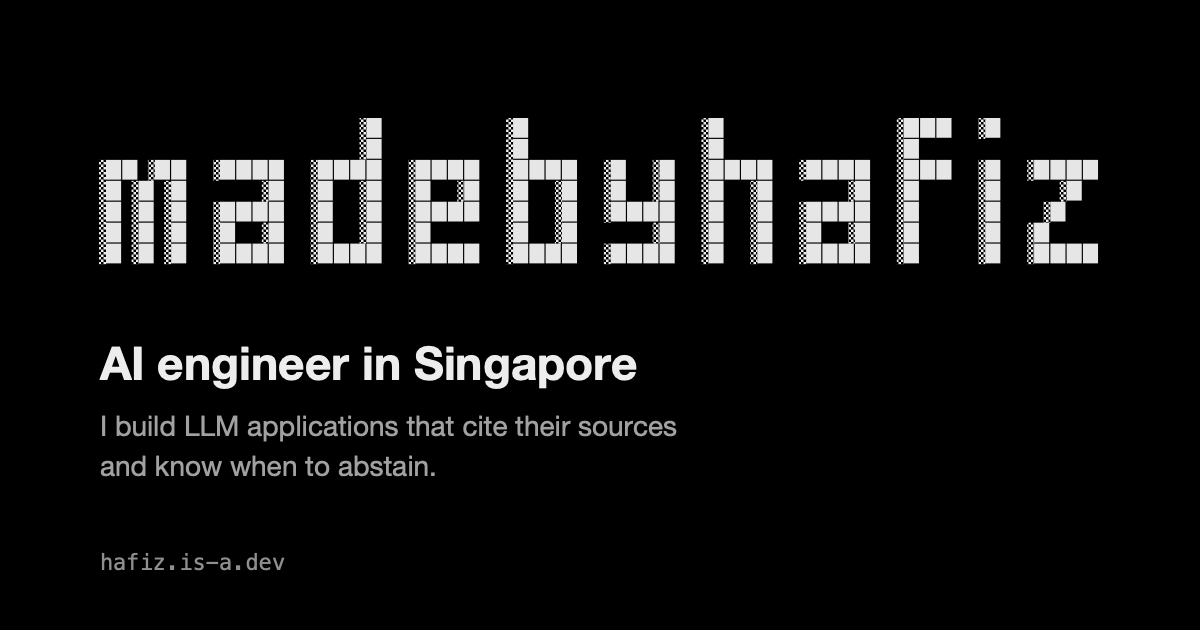
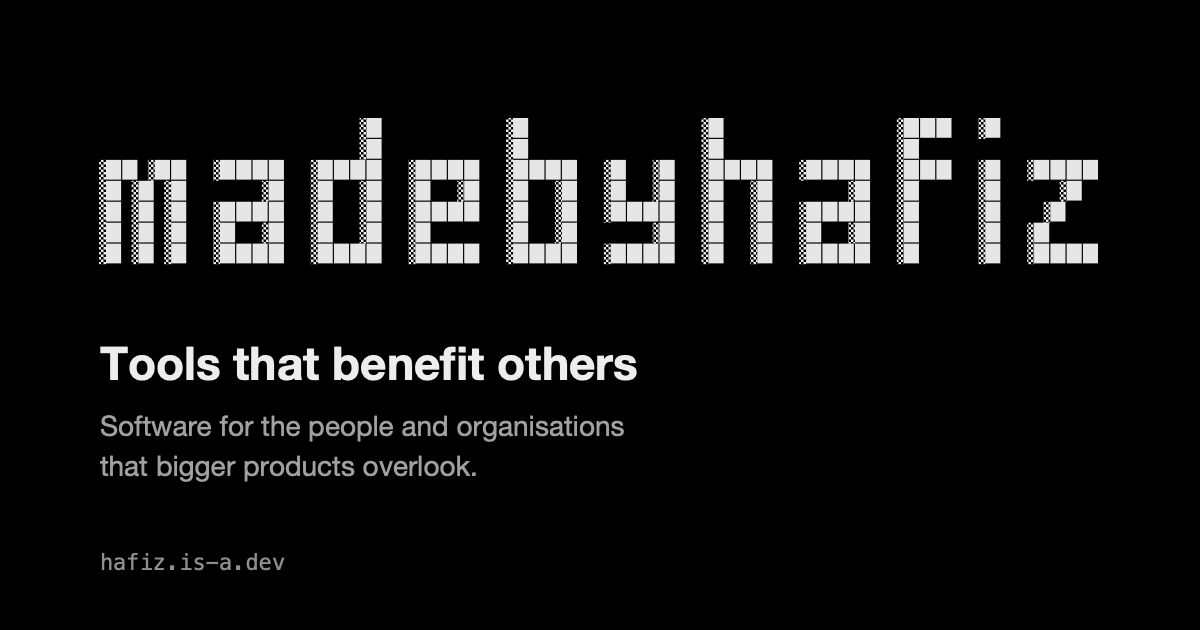
Add deen-note and ping-pong, hide sentryboard and wordblock, new pitch

Changed region(s): [[0.0617, 0.5429, 0.555, 0.6333], [0.0617, 0.6635, 0.5858, 0.6937], [0.0617, 0.7238, 0.4008, 0.7841]]

diff --git a/index.html b/index.html
@@ -3,12 +3,12 @@
 <head>
 <meta charset="utf-8">
 <meta name="viewport" content="width=device-width, initial-scale=1">
-<title>madebyhafiz · AI engineer in Singapore</title>
-<meta name="description" content="Hafiz builds LLM applications that cite their sources and know when to abstain. Projects, experience and a case study of the MUIS assistant, scored on a 150-question eval set.">
+<title>madebyhafiz · Tools that benefit others</title>
+<meta name="description" content="Hafiz builds tools that benefit others: free PayNow for nonprofits, prayer times, a hadith notepad, a citation-only assistant and more. Projects, experience and case studies.">
 <meta name="theme-color" content="#000000">
 <link rel="canonical" href="https://hafiz.is-a.dev/">
-<meta property="og:title" content="madebyhafiz · AI engineer in Singapore">
-<meta property="og:description" content="I build LLM applications that cite their sources and know when to abstain.">
+<meta property="og:title" content="madebyhafiz · Tools that benefit others">
+<meta property="og:description" content="I build tools that benefit others: people, mosques, nonprofits and the small teams bigger software overlooks.">
 <meta property="og:type" content="website">
 <meta property="og:url" content="https://hafiz.is-a.dev/">
 <meta property="og:image" content="https://hafiz.is-a.dev/og.png">
@@ -43,14 +43,14 @@
       <a href="#projects"><span class="caret" aria-hidden="true">›</span>projects</a>
       <div class="sub">
         <a href="muis-assistant.html">muis-assistant</a>
+        <a href="#deen-note">deen-note</a>
         <a href="#fileswarden">fileswarden</a>
         <a href="#presstwo">presstwo</a>
         <a href="#confirmpay">confirmpay</a>
         <a href="#prayer-lockscreen">prayer-lockscreen</a>
         <a href="#bismillah">bismillah</a>
         <a href="#quran-resume">quran-resume</a>
-        <a href="#sentryboard">sentryboard</a>
-        <a href="#wordblock">wordblock</a>
+        <a href="#ping-pong">ping-pong</a>
         <a href="#gym-init">gym-init</a>
         <a href="expense-tracker.html">expense-tracker</a>
       </div>
@@ -105,8 +105,9 @@
         style="border:0;color-scheme:light"></iframe>
 
       <div class="intro">
-        <p class="lead">I build LLM applications that cite their sources and know when to abstain.</p>
-        <p>I'm Hafiz, a Computer Engineering graduate from the National University of Singapore. My main project is an assistant over public MUIS information, scored against a 150-question eval set in English, Malay and Arabic. I have also built a machine-learning prototype for Synapxe and LLM workflows for staff at Masjid Wak Tanjong.</p>
+        <p class="lead">I build tools that benefit others.</p>
+        <p>I'm Hafiz, a Computer Engineering graduate from the National University of Singapore. I make software for the people and organisations that bigger products overlook: a free way for nonprofits to confirm PayNow payments, prayer times on your lock screen, a notepad that brings in hadith and Quran verses with their sources, and an assistant that answers from public information and says when it does not know.</p>
+        <p>Most of it is free, much of it is open source, and each project below says what it does and what it is made with.</p>
       </div>
 
       <div>
@@ -124,7 +125,7 @@
         <p>Read the case study for the project that best shows how I work, or browse everything else.</p>
         <pre class="code"><span class="cmd">cd</span> madebyhafiz/projects
 <span class="cmd">ls</span>
-<span class="dim">muis-assistant  fileswarden  presstwo  confirmpay  prayer-lockscreen  bismillah  quran-resume  sentryboard  wordblock  gym-init  expense-tracker</span>
+<span class="dim">muis-assistant  deen-note  fileswarden  presstwo  confirmpay  prayer-lockscreen  bismillah  quran-resume  ping-pong  gym-init  expense-tracker</span>
 <span class="cmd">open</span> <a href="muis-assistant.html">muis-assistant/case-study</a></pre>
       </section>
 
@@ -141,6 +142,16 @@
             <p class="card-desc">A citation-only assistant over public MUIS information, in English, Malay and Arabic. Every claim links to its source, and it says so when it cannot answer. Evaluated on 150 questions with the results and the mistakes written up.</p>
             <div class="tags"><code class="tag">Python</code><code class="tag">pgvector</code><code class="tag">FastAPI</code><code class="tag">Claude</code><code class="tag">evals</code></div>
             <p class="card-note">Independent project. Not built, endorsed or operated by MUIS, and not a source of religious rulings.</p>
+          </a>
+
+          <a class="card" id="deen-note" href="https://hafizuddin-a.github.io/">
+            <div class="card-head">
+              <span class="card-name"><img class="app-icon" src="icons/deen-note.png" alt="" width="28" height="28"><span>deen-note<sup>↗</sup></span></span>
+              <span class="card-meta">web app · installable</span>
+            </div>
+            <p class="card-desc">A quiet markdown notepad with two extra tricks. Type @hadith and a few words to pick a hadith, or @quran and a place like 2:255 to bring in the verses in Arabic with the English translation. Search runs in your browser across tens of thousands of hadith, and every result links back to its source page.</p>
+            <div class="tags"><code class="tag">React</code><code class="tag">TypeScript</code><code class="tag">Tiptap</code><code class="tag">PWA</code></div>
+            <p class="card-note">Hadith text is retrieved from published collections, never generated. Always check the linked source.</p>
           </a>
 
           <a class="card" id="fileswarden" href="https://fileswarden-site.hello-hafiz.workers.dev">
@@ -199,6 +210,16 @@
             <p class="card-links"><a href="https://chromewebstore.google.com/detail/quran-resume/mkmhldkeenlbbmhgpcomibpnajbmfkje">Chrome Web Store</a> · <a href="https://github.com/hafizuddin-a/quran-resume">GitHub</a></p>
           </div>
 
+          <a class="card" id="ping-pong" href="https://github.com/hafizuddin-a/ping-pong-menubar">
+            <div class="card-head">
+              <span class="card-name"><img class="app-icon" src="icons/ping.png" alt="" width="28" height="28"><span>ping-pong<sup>↗</sup></span></span>
+              <span class="card-meta">macOS · v1.0.6</span>
+            </div>
+            <p class="card-desc">A tiny ping-pong game that lives in your Mac's menu bar. Click the icon, play the bot with the arrow keys, click away. It uses Liquid Glass on macOS 26, needs no account and makes no network requests.</p>
+            <div class="tags"><code class="tag">Swift</code><code class="tag">macOS</code><code class="tag">MIT</code></div>
+          </a>
+
+          <!-- TEMPORARILY HIDDEN (restore by deleting this comment wrapper):
           <a class="card" id="sentryboard" href="https://github.com/hafizuddin-a/sentryboard">
             <div class="card-head">
               <span class="card-name"><img class="app-icon" src="icons/sentryboard.png" alt="" width="28" height="28"><span>sentryboard<sup>↗</sup></span></span>
@@ -216,6 +237,7 @@
             <p class="card-desc">Deletes the words you choose the moment you finish typing them, in any Mac app. Matching ignores case, accents and apostrophes and catches letter swaps like sh@t. A settings lock makes removing words wait out a countdown. No network access.</p>
             <div class="tags"><code class="tag">Swift</code><code class="tag">macOS</code><code class="tag">MIT</code></div>
           </a>
+          -->
 
           <a class="card" id="gym-init" href="https://github.com/hafizuddin-a/gym-init">
             <div class="card-head">

diff --git a/expense-tracker.html b/expense-tracker.html
@@ -43,14 +43,14 @@
       <a href="index.html#projects"><span class="caret" aria-hidden="true">›</span>projects</a>
       <div class="sub">
         <a href="muis-assistant.html">muis-assistant</a>
+        <a href="index.html#deen-note">deen-note</a>
         <a href="index.html#fileswarden">fileswarden</a>
         <a href="index.html#presstwo">presstwo</a>
         <a href="index.html#confirmpay">confirmpay</a>
         <a href="index.html#prayer-lockscreen">prayer-lockscreen</a>
         <a href="index.html#bismillah">bismillah</a>
         <a href="index.html#quran-resume">quran-resume</a>
-        <a href="index.html#sentryboard">sentryboard</a>
-        <a href="index.html#wordblock">wordblock</a>
+        <a href="index.html#ping-pong">ping-pong</a>
         <a href="index.html#gym-init">gym-init</a>
         <a href="expense-tracker.html" aria-current="page">expense-tracker</a>
       </div>

diff --git a/muis-assistant.html b/muis-assistant.html
@@ -43,14 +43,14 @@
       <a href="index.html#projects"><span class="caret" aria-hidden="true">›</span>projects</a>
       <div class="sub">
         <a href="muis-assistant.html" aria-current="page">muis-assistant</a>
+        <a href="index.html#deen-note">deen-note</a>
         <a href="index.html#fileswarden">fileswarden</a>
         <a href="index.html#presstwo">presstwo</a>
         <a href="index.html#confirmpay">confirmpay</a>
         <a href="index.html#prayer-lockscreen">prayer-lockscreen</a>
         <a href="index.html#bismillah">bismillah</a>
         <a href="index.html#quran-resume">quran-resume</a>
-        <a href="index.html#sentryboard">sentryboard</a>
-        <a href="index.html#wordblock">wordblock</a>
+        <a href="index.html#ping-pong">ping-pong</a>
         <a href="index.html#gym-init">gym-init</a>
         <a href="expense-tracker.html">expense-tracker</a>
       </div>
